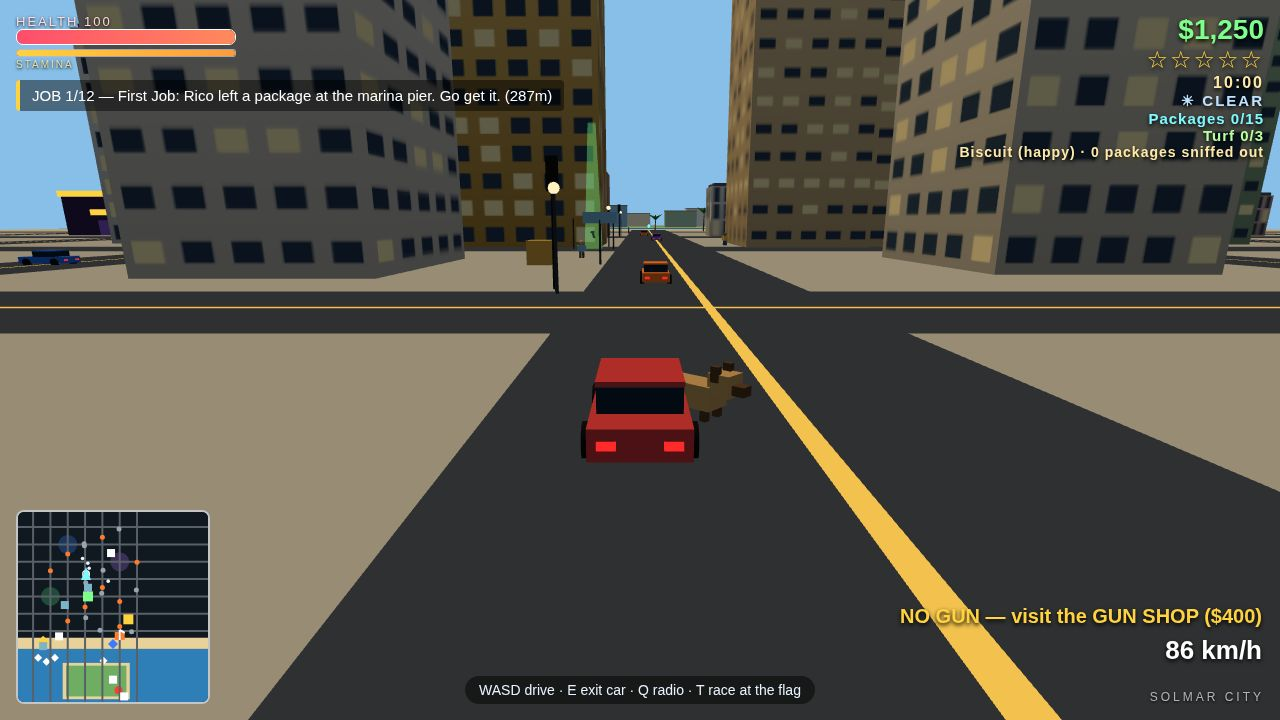
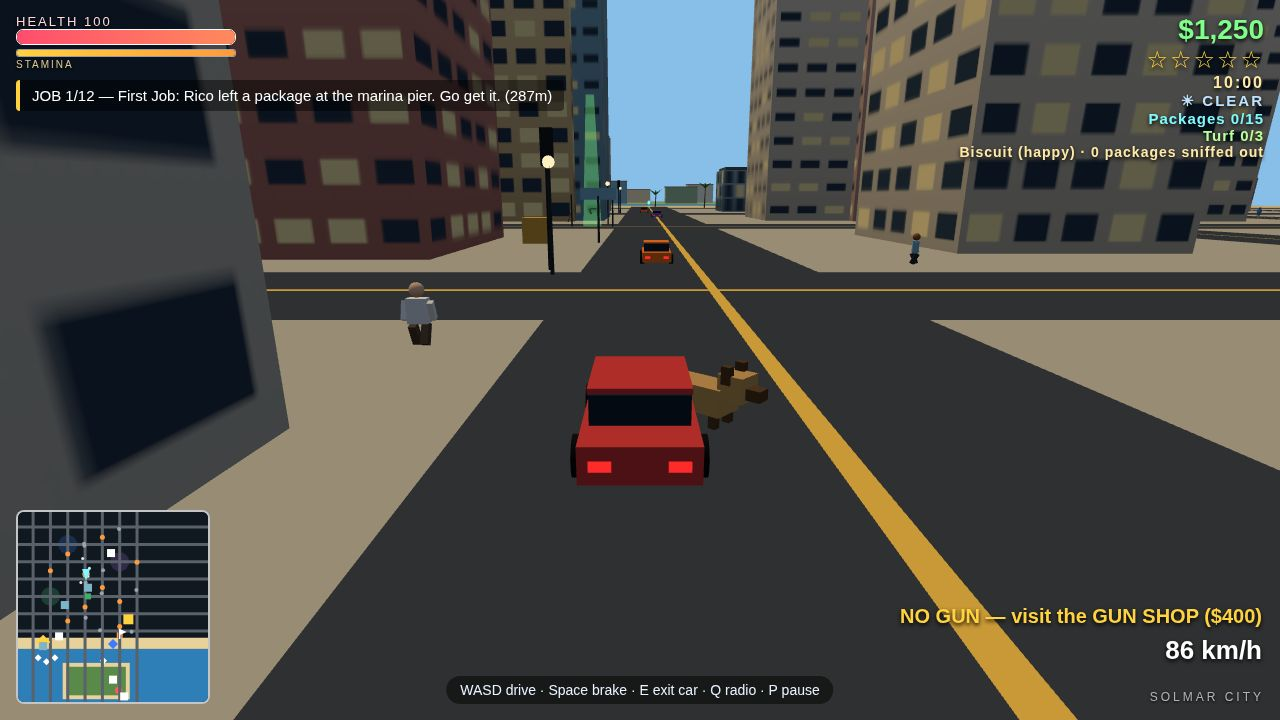
Phase 8e: touches in remaining files + retaken screenshots

diff --git a/main.ts b/main.ts
@@ -66,8 +66,8 @@ const dossierPath = join(outDir, 'dossier.json');
 writeFileSync(dossierPath, dossier);
 
 console.log(
-  'Solmar City — Phase 7 build: city / audio / hud / main.ts rewritten, '
-  + 'missions / traffic / police / bootstrap rewritten, touches in every '
-  + 'remaining module, screenshots re-taken — dossier written to '
-  + `${dossierPath} (${dossier.length} bytes)`,
+  'Solmar City — Phase 8 build: traffic / audio / police / pedestrians / '
+  + 'weapons rewritten, missions / hud / city / bootstrap rewritten, '
+  + 'touches in every remaining module, screenshots re-taken — dossier '
+  + `written to ${dossierPath} (${dossier.length} bytes)`,
 );

diff --git a/game/src/story.js b/game/src/story.js
@@ -131,6 +131,9 @@ export function createStory() {
   function showFor(jobIndex, onDone) {
     const lines = SCRIPTS[jobIndex];
     if (!lines || !overlay) return false;
+    // Never clobber a scene already playing (e.g. the Biscuit adoption):
+    // its onDone would be lost. The caller starts the job without an intro.
+    if (story.active) return false;
     story.lines = lines;
     story.index = 0;
     story.done = onDone || null;

diff --git a/README.md b/README.md
@@ -229,9 +229,9 @@ The game stages its own screenshot scenes deterministically:
 `?shot=drive|street|vista|menu|chase|mission|night&seed=N` plays the real
 rules forward and sets `window.__shotReady` when the frame is painted.
 See `shots.json` for the four shots this entry hands in: the cover drive,
-a police chase at two stars, Job 10 Island Hopper — Mara sailing the bay
-toward the second island and its lighthouse — and Solmar City after dark
-in a storm, the lighthouse beam sweeping the bay.
+a three-star police ram run in golden late-afternoon light, Mara fishing
+off the east pier at golden hour with Biscuit at her heel, and Solmar City
+after dark in a storm, the lighthouse beam sweeping the bay.
 
 ## Entry
 
